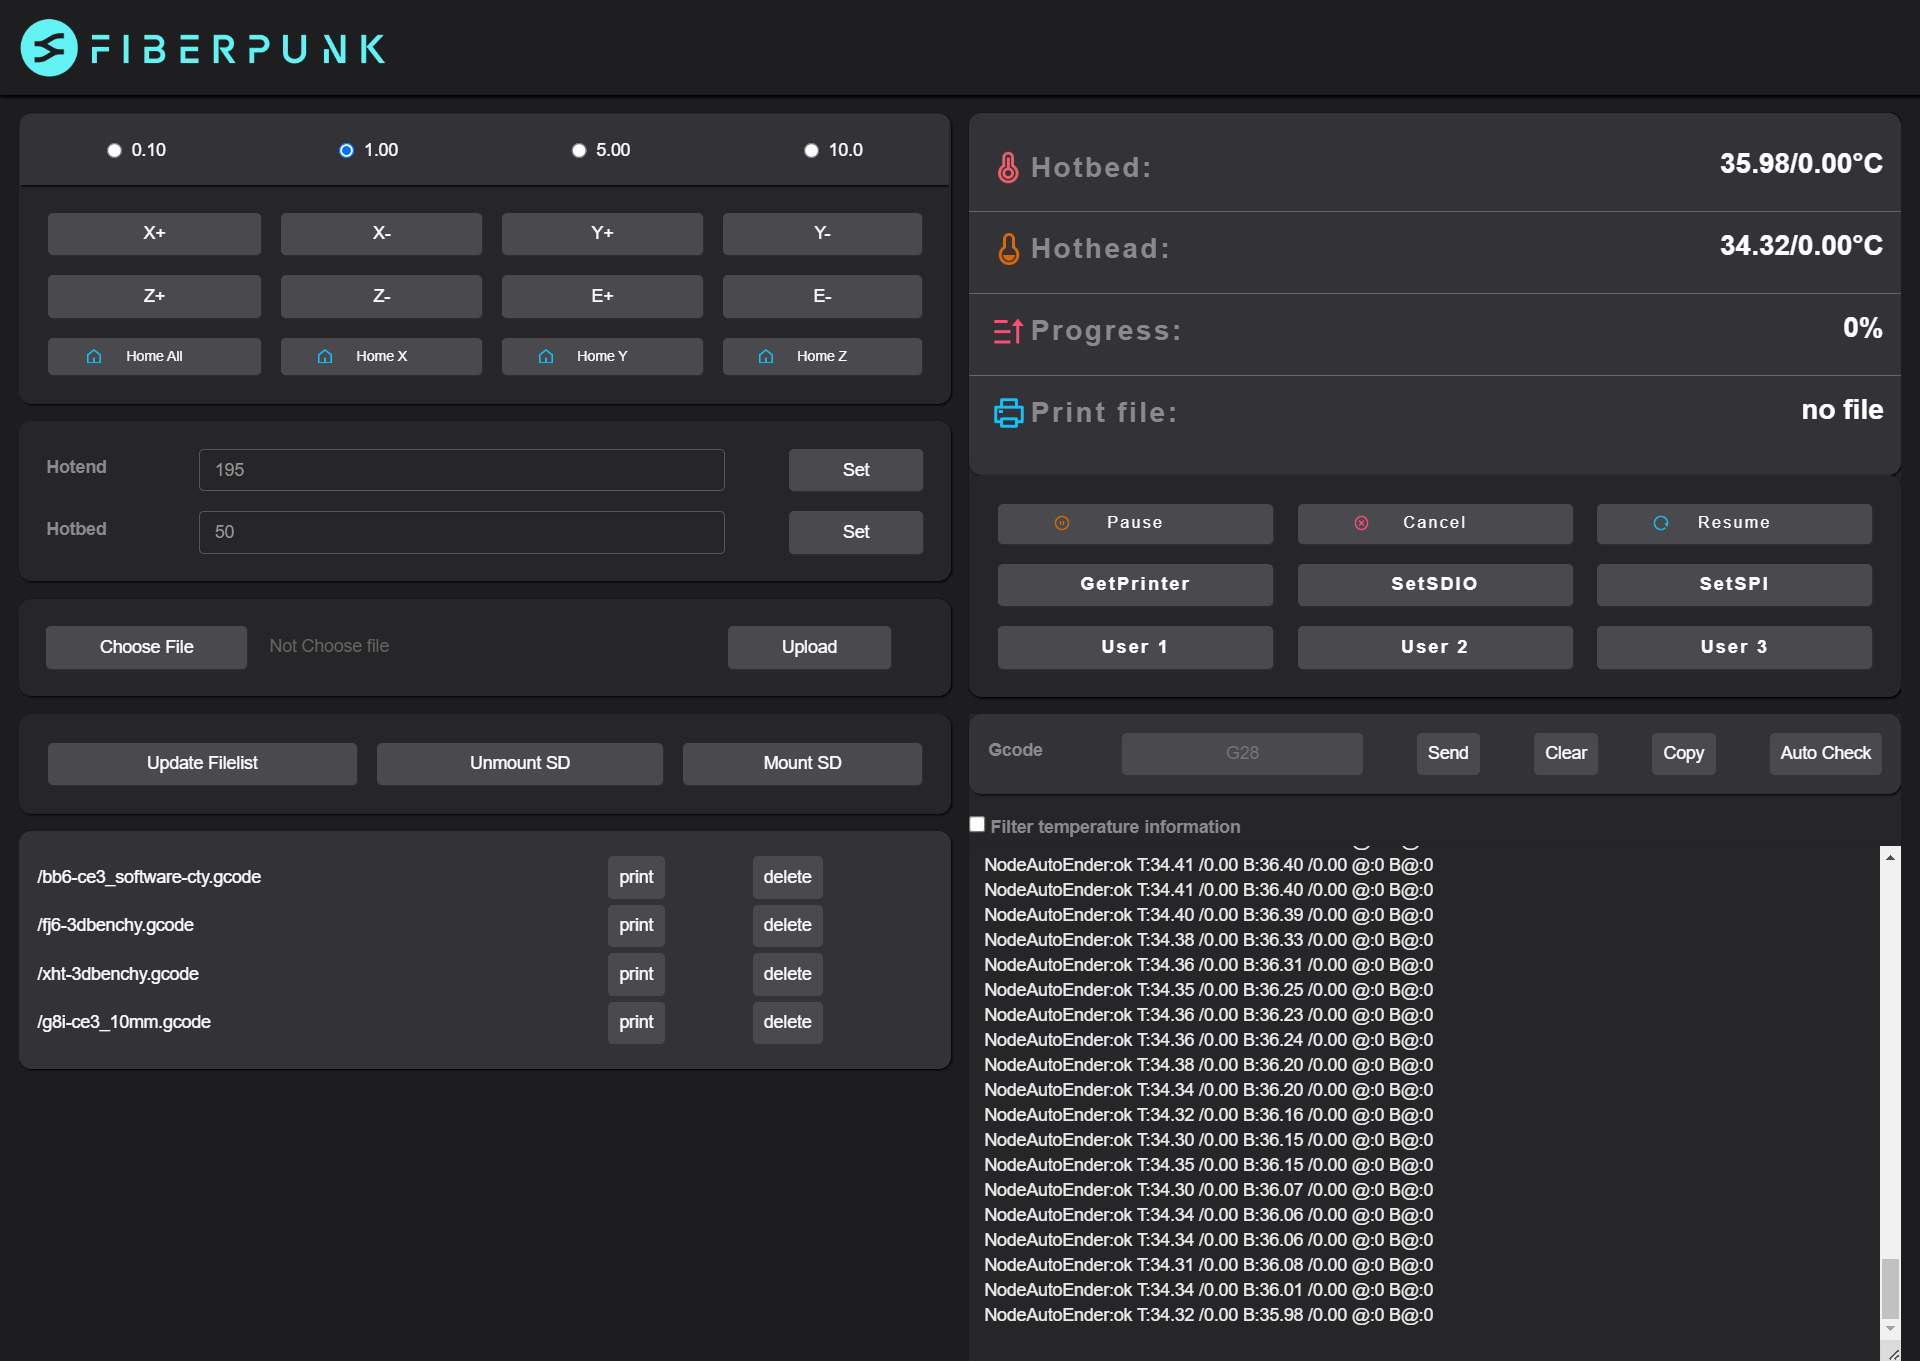
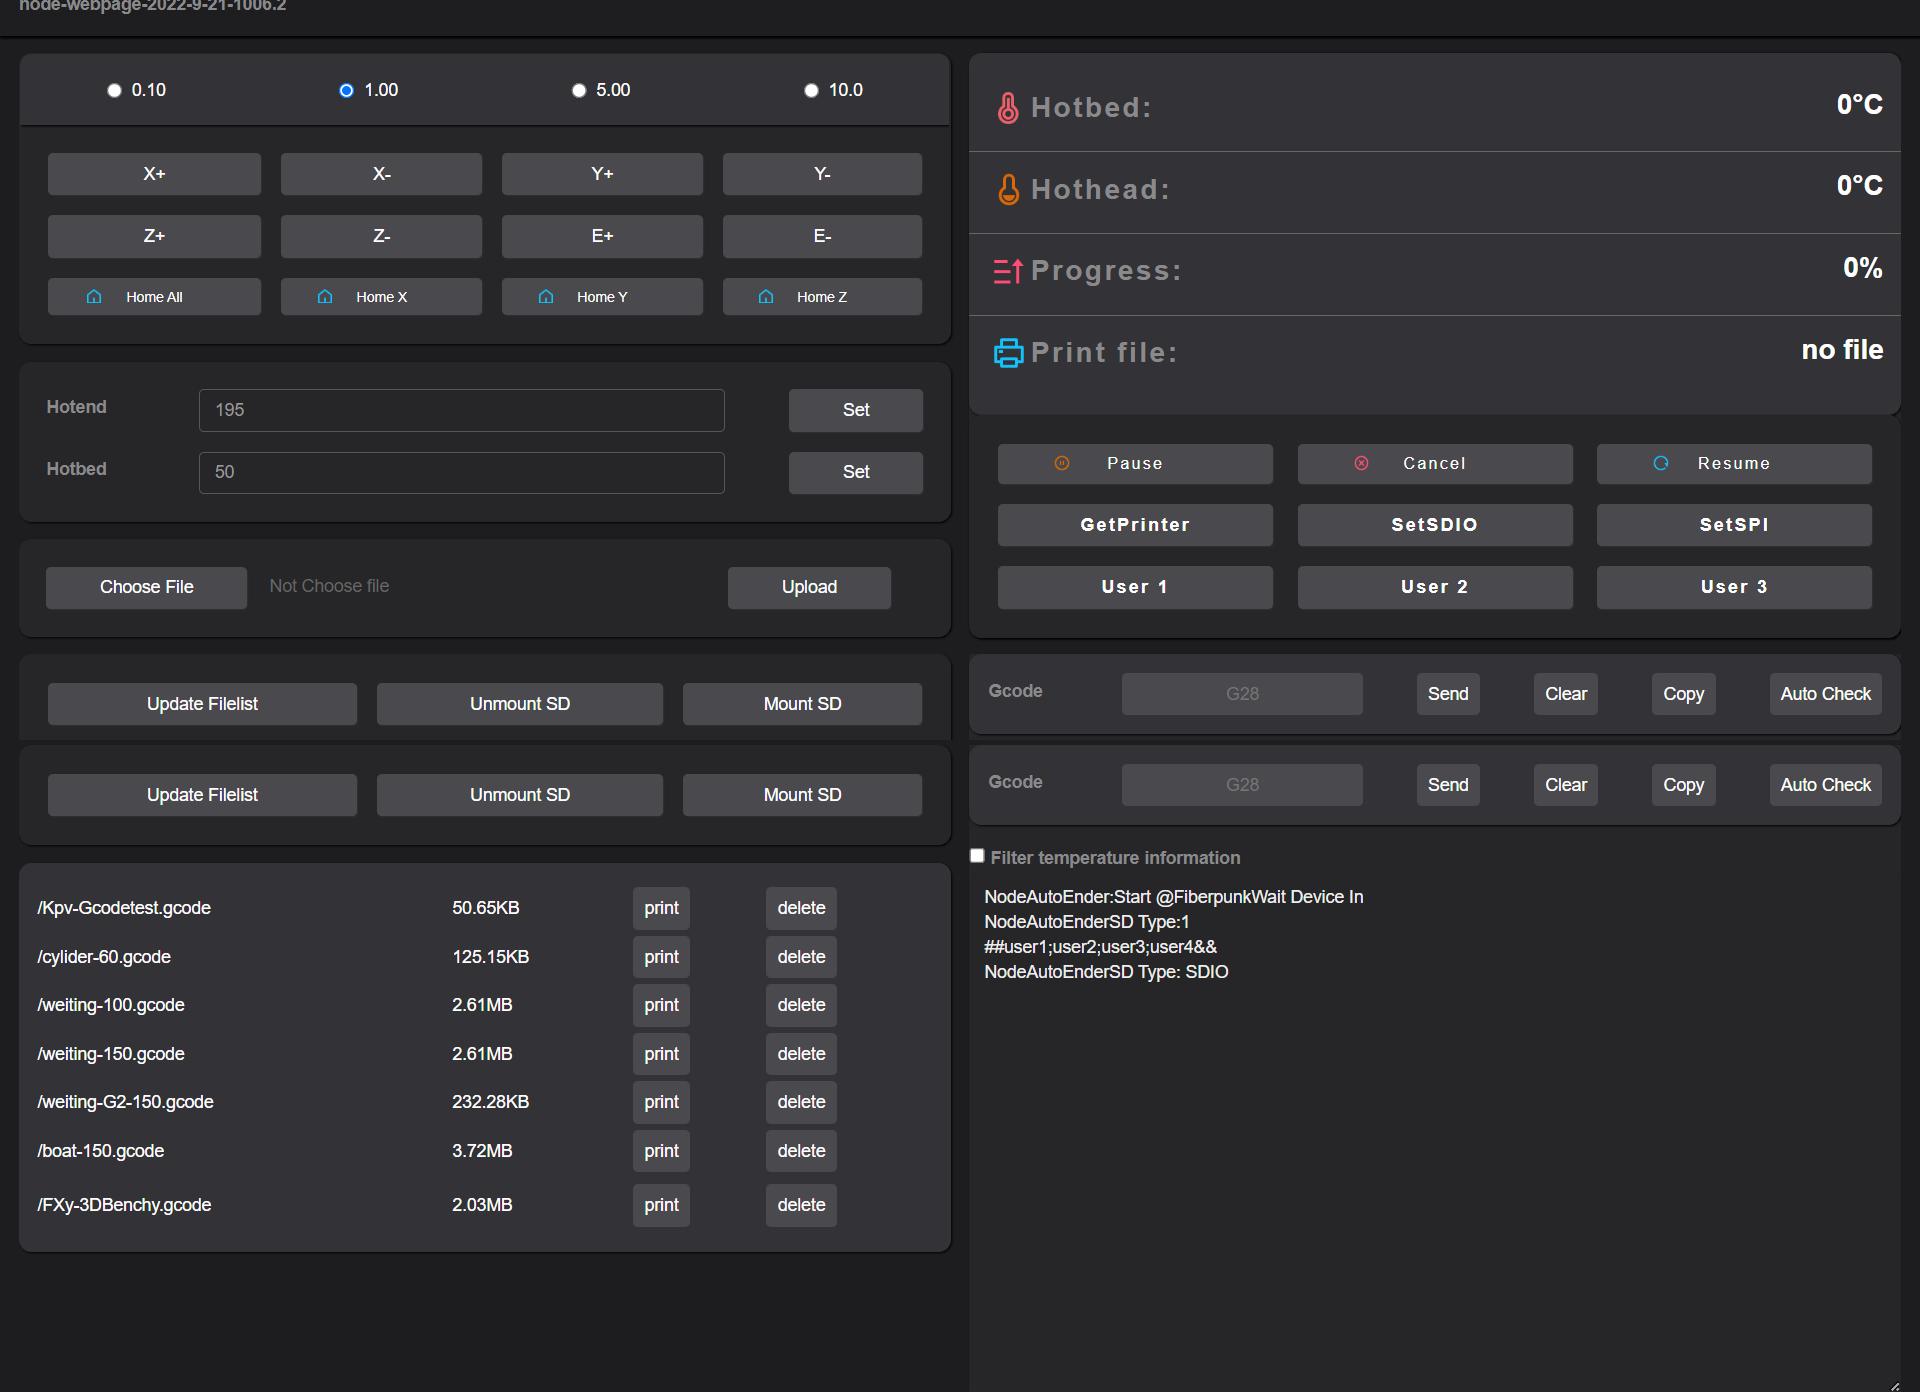
:construction_work: add file size

diff --git a/src/script.js b/src/script.js
@@ -32,13 +32,39 @@ function updateUserBtn(){
   console.log("test send btn");
 };
 
+function formatFileSize(fileSize) {
+  if (fileSize < 1024) {
+      return fileSize + 'B';
+  } else if (fileSize < (1024*1024)) {
+      var temp = fileSize / 1024;
+      temp = temp.toFixed(2);
+      return temp + 'KB';
+  } else if (fileSize < (1024*1024*1024)) {
+      var temp = fileSize / (1024*1024);
+      temp = temp.toFixed(2);
+      return temp + 'MB';
+  } else {
+      var temp = fileSize / (1024*1024*1024);
+      temp = temp.toFixed(2);
+      return temp + 'GB';
+  }
+}
 
 function createTreeLeaf(path, name, size) {
   var td = document.createElement('td');
   td.id = ((path == '/' ? '' : path) + '/' + name).toLowerCase();
-  td.innerHTML = name.toLowerCase();
+  // td.innerHTML = name.toLowerCase();
+  td.innerHTML = name;
   return td;
 }
+
+function createSizeTd(path, name, size) {
+  var td = document.createElement('td');
+  td.id = ((path == '/' ? '' : path) + '/' + name + '_size').toLowerCase();
+  td.innerHTML = formatFileSize(Number(size))
+  return td;
+}
+
 function convertToShortName(fullName) {
   var f_name = fullName.replace('/', '');
   var base_name = f_name.replace(/\.[^/.]+$/, '');
@@ -74,6 +100,10 @@ function addList(parent, path, items) {
         itemEl = createTreeLeaf(path, item.name, item.size);
         console.log(item.name);
         list.appendChild(itemEl);
+
+        itemSize = createSizeTd(path, item.name, item.size);
+        list.append(itemSize);
+
         var td_print = document.createElement('td');
         td_print.innerHTML =
           "<button class='btn btn-default btn-xs' type='button'><span class='glyphicon glyphicon-print' aria-hidden='true'></span>print</button>";
@@ -147,6 +177,7 @@ function httpGet(parent, path) {
       //clear loading
       if (xmlHttp.status == 200)
         addList(parent, path, JSON.parse(xmlHttp.responseText));
+        console.log("Get respon of path:");
         console.log(xmlHttp.responseText);
     }
     if (

diff --git a/src/index.htm b/src/index.htm
@@ -12,7 +12,7 @@
 				<img src="logo_03.png">
 				<br>
 				<label>
-						<span>node-webpage-2022-9-12-1006.0</span>
+						<span>node-webpage-2022-9-21-1006.2</span>
 				</label>
 			</div>
 		</div>
